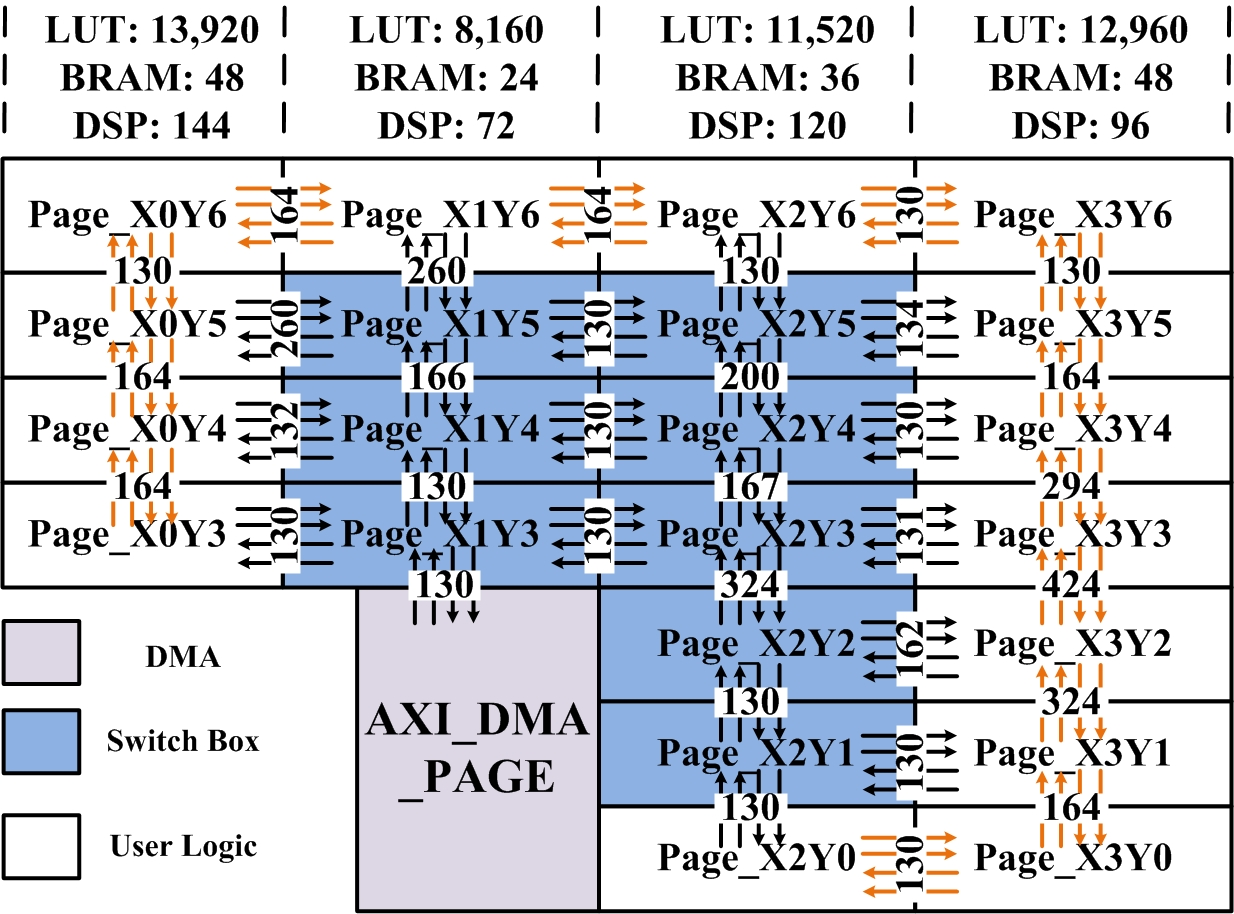
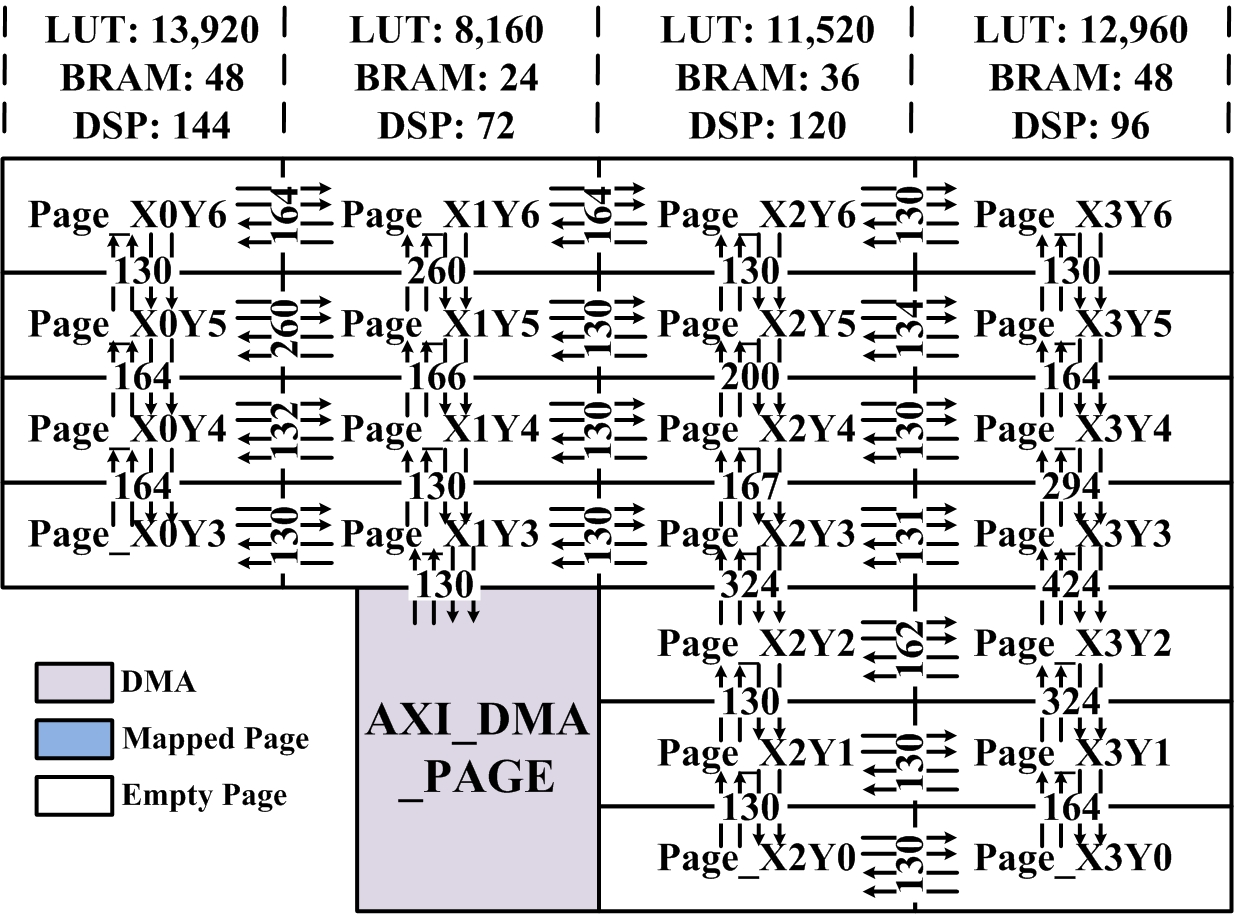
update renderign DFG

diff --git a/README.md b/README.md
@@ -47,8 +47,9 @@ as well.
   <link source = "coloringFB_top_m.0-X3Y5-X3Y4-X3Y3-X2Y3-X1Y3-DMA.0" width = "128"/>
 ```
 
+Based on the interconnection description, the pyhsical location and interconnections are as below.
 
-
+![](images/overlay_rendering.jpg) 
 
 
 
